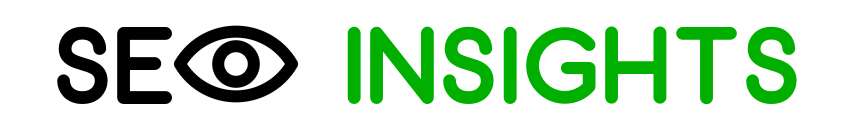
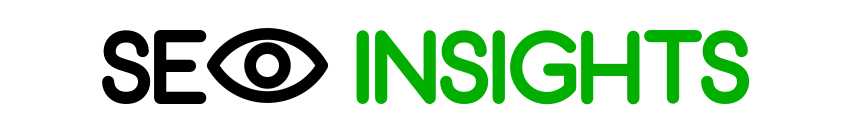
new header and added links

Changed region(s): [[0.0612, 0.192, 0.9482, 0.84]]

diff --git a/README.md b/README.md
@@ -1,17 +1,17 @@
 ![](img/seo-insights-header.png)
 
-SEO Insights ist eine Chrome-Extension um auf einen Blick die wichtigsten Informationen einer Website anzeigen zu können.
+SEO Insights ist eine Google Chrome Extension um auf einen Blick die wichtigsten Informationen einer Website anzeigen zu können.
 
 ### Features
 
-* Übersicht (Meta-Description, Titel, ...)
+* Übersicht (Meta-Beschreibung, Titel, Canonical, usw.)
 * Überschriften (inkl. Anzahl der Buchstaben und Wörter)
-* Meta-Informationen (Open Graph, Facebook, Twitter, Dubline Core, Parse.ly, ...)
+* Meta-Informationen (Open Graph, Facebook, Twitter, Dublin Core, Parse.ly, usw.)
 * Bilder (Bildgröße, Alternativtext, Titel, Domains)
 * Links (Protokolle, externe und interne Links)
 * Dateien (Stylesheets, JavaScript, spezielle Dateien)
 * HTTP-Header-Informationen
-* Links zu Tools (Google Page Speed Insights, W3C CSS Validation Service, Nu Html Checker, GTmetrix, Test für Rich-Suchergebnisse und Test auf Optimierung für Mobilgeräte)
+* Links zu Tools ([Google Page Speed Insights](https://developers.google.com/speed/pagespeed/insights/), [W3C CSS Validation Service](https://jigsaw.w3.org/css-validator/), [Nu Html Checker](https://validator.w3.org/nu/), [GTmetrix](https://gtmetrix.com/), [Test für Rich-Suchergebnisse](https://search.google.com/test/rich-results) und [Test auf Optimierung für Mobilgeräte](https://search.google.com/test/mobile-friendly))
 
 ![](img/seo-insights-summary.png)
 
